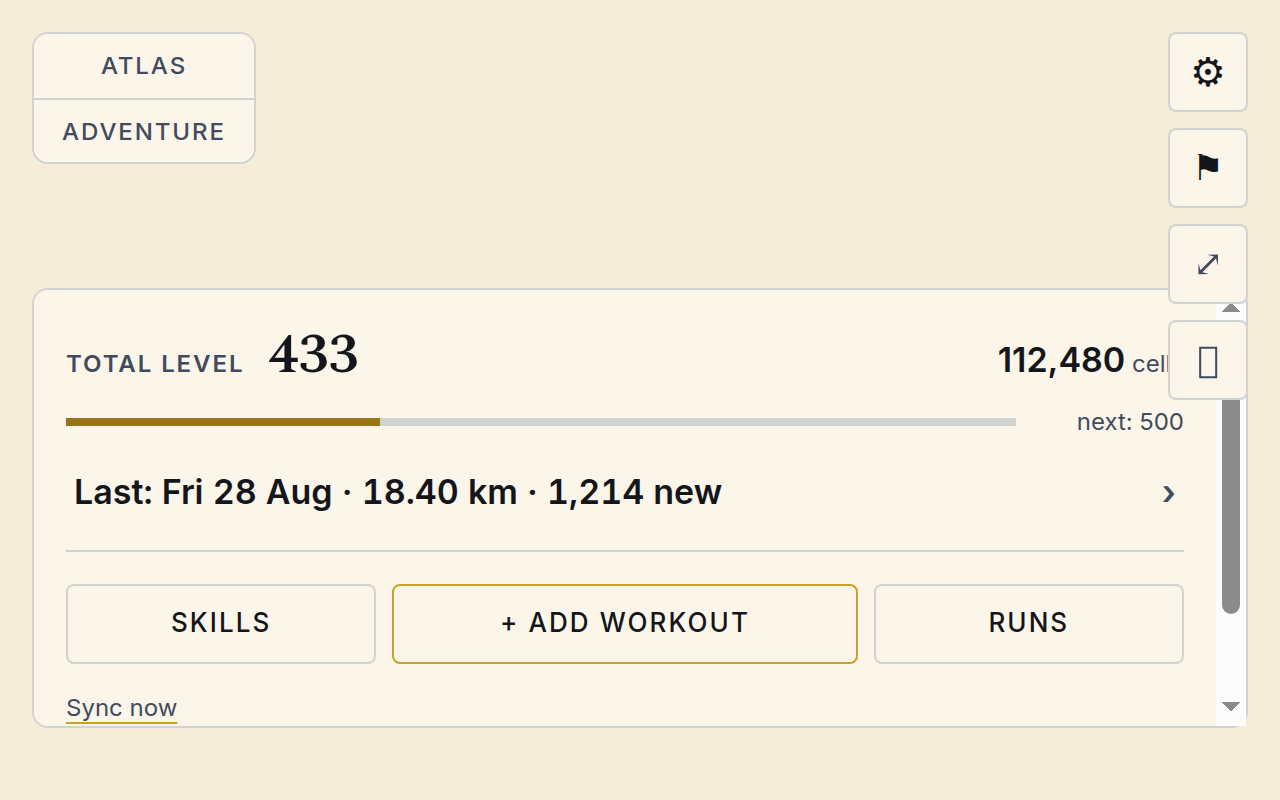
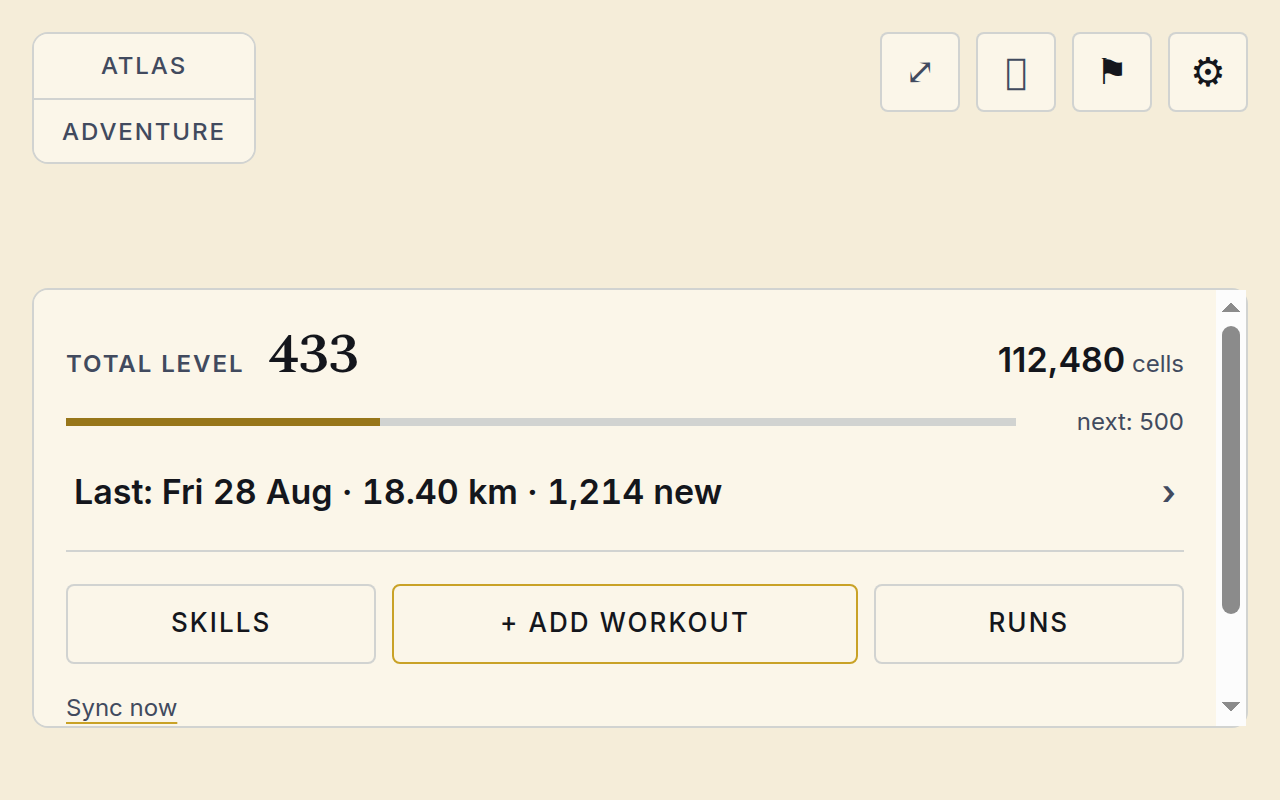
0314: Below 1024px the right-edge map controls overlap the bottom card and the Chronicle

diff --git a/components/map/map-controls.tsx b/components/map/map-controls.tsx
@@ -37,7 +37,9 @@ import { useExplored } from "./explored-provider"
  * `⌖` with an 8 px gap and `⌖`'s bottom 16 px above the attribution (`06` §2.2 rows 6 and 8; D-313:
  * map controls are 40 px and live on the pane, never under the rail), clear of the mode toggle
  * (top-left) and of `⚙` and jump-to (top-right). Below 1024 px the plinth is a bottom card of
- * variable height, so they move up under jump-to instead — that width only must not break (D-251).
+ * variable height, so they join `⚙` and jump-to in ONE ROW along the top-right — fit, `⌖`, jump-to,
+ * `⚙` — where neither the card nor the Chronicle can reach them (`0314`; that width only must not
+ * break, D-251).
  *
  * The rules themselves — hit test, card placement, the transition function — are `lib/route-inspect.ts`
  * and `lib/map-controls.ts`, pure and tested; this file wires them to MapLibre's events.
@@ -54,10 +56,13 @@ export interface ControlsHost extends CameraHost {
 
 /**
  * `bottom: 36px` keeps MapLibre's attribution uncovered (§2.2 row 10, the plinth's own inset). The
- * two buttons share one rule set with `⚙` and jump-to: same surface, rule and size.
+ * two buttons share one rule set with `⚙` and jump-to: same surface, rule and size. Below 1024px
+ * (`0314`) they are a row at `top: 16px`, `right: 112px` — left of jump-to (`right: 64px`) and `⚙`
+ * (`right: 16px`), 8px apart — so the four controls are one 40px strip and the card and the
+ * Chronicle, whatever their height, stay below it.
  */
 export const MAP_CONTROLS_CSS =
-  ".map-controls { position: fixed; z-index: 1; top: 112px; right: 16px; display: flex; flex-direction: column; gap: 8px; }" +
+  ".map-controls { position: fixed; z-index: 1; top: 16px; right: 112px; display: flex; flex-direction: row; gap: 8px; }" +
   " .map-control { width: 40px; height: 40px; display: flex; align-items: center; justify-content: center;" +
   " box-sizing: border-box; padding: 0; background: var(--surface-raised); border: 1px solid var(--line);" +
   " border-radius: 4px; color: var(--text-primary); font-size: 18px; line-height: 1; cursor: pointer; }" +
@@ -65,7 +70,7 @@ export const MAP_CONTROLS_CSS =
   " .map-control:disabled { color: var(--text-secondary); cursor: default; }" +
   " .map-control:focus-visible, .route-card a:focus-visible, .route-chip:focus-visible {" +
   " outline: 2px solid var(--text-primary); outline-offset: 2px; }" +
-  " @media (min-width: 1024px) { .map-controls { top: auto; bottom: 36px; } }" +
+  " @media (min-width: 1024px) { .map-controls { top: auto; bottom: 36px; right: 16px; flex-direction: column; } }" +
   " .route-chip, .route-card { position: fixed; z-index: 2; box-sizing: border-box; background: var(--surface-raised);" +
   " border: 1px solid var(--line); border-radius: 4px; color: var(--text-primary); font: 400 14px/1.3 var(--font-sans);" +
   " font-variant-numeric: tabular-nums; }" +

diff --git a/components/chronicle/chronicle-panel.tsx b/components/chronicle/chronicle-panel.tsx
@@ -20,7 +20,7 @@ import { ChronicleRows } from "./chronicle-rows"
  *
  * A PANEL, NOT A PAGE AND NOT A MODAL. At ≥1024px it replaces the rail's contents — the same 24rem
  * column, full height, opaque — with no scrim, and the map to its right stays live. Below 1024px it
- * takes the bottom card's place, growing up to 16px below the map's top controls, and takes the
+ * takes the bottom card's place, from 16px below the mode toggle to the attribution, and takes the
  * shared swipe-down (D-314) there. It is a ROUTE, held in no component state: the home layout keeps
  * the map mounted under both `/` and `/chronicle`, so opening and dismissing it never touch the
  * camera.
@@ -33,8 +33,13 @@ import { ChronicleRows } from "./chronicle-rows"
  * no week or month totals, no filter, no search, no sort. A list, newest first.
  */
 
+/**
+ * Below 1024px, `top: 98px` is 16px under the mode toggle (16 + its 66px: two 32px border-box rows
+ * and its 1px border, top and bottom) — the tallest thing on the top edge, since `⚙`, jump-to, fit and `⌖`
+ * are one 40px row there (`0314`). `bottom: 36px` keeps the attribution clear (D-315).
+ */
 export const CHRONICLE_CSS =
-  ".chronicle { position: fixed; z-index: 1; left: 16px; right: 16px; top: 72px; bottom: 36px;" +
+  ".chronicle { position: fixed; z-index: 1; left: 16px; right: 16px; top: 98px; bottom: 36px;" +
   " overflow-y: auto; overscroll-behavior: contain; box-sizing: border-box; background: var(--surface-raised);" +
   " border: 1px solid var(--line); border-radius: 8px; color: var(--text-primary); font-family: var(--font-sans); }" +
   " .chronicle-head { position: sticky; top: 0; z-index: 1; display: flex; align-items: center;" +

diff --git a/components/map/region-jump-control.tsx b/components/map/region-jump-control.tsx
@@ -54,12 +54,14 @@ export function listKey(key: string, active: number, count: number): ListMove {
 
 /**
  * Positioned against the pane's right edge, as `⚙` is: `right: 16px` from the window IS the pane's
- * right edge at every width (the rail is on the left). `top: 64px` is `⚙`'s 16px inset, its 40px,
- * and the 8px gap §2.2 uses between stacked map controls. Clear of the mode toggle (top-left) and of
- * fit and `⌖` (bottom-right).
+ * right edge at every width (the rail is on the left). At ≥1024px `top: 64px` is `⚙`'s 16px inset,
+ * its 40px, and the 8px gap §2.2 uses between stacked map controls. Below 1024px (`0314`) it sits
+ * in the top-right row instead, left of `⚙` (`right: 64px` = 16 + 40 + 8), with fit and `⌖` to its
+ * left. Clear of the mode toggle (top-left) either way.
  */
 export const REGION_JUMP_CSS =
-  ".region-jump { position: fixed; z-index: 1; top: 64px; right: 16px; }" +
+  ".region-jump { position: fixed; z-index: 1; top: 16px; right: 64px; }" +
+  " @media (min-width: 1024px) { .region-jump { top: 64px; right: 16px; } }" +
   " .region-jump-button { width: 40px; height: 40px; display: flex; align-items: center; justify-content: center;" +
   " box-sizing: border-box; padding: 0; background: var(--surface-raised); border: 1px solid var(--line);" +
   " border-radius: 4px; color: var(--text-primary); font-size: 18px; line-height: 1; cursor: pointer; }" +

diff --git a/components/map/region-jump-control.test.tsx b/components/map/region-jump-control.test.tsx
@@ -51,7 +51,11 @@ describe("RegionJumpControl", () => {
   })
 
   it("sits under the settings control on the pane's right edge, clear of the top-left mode toggle", () => {
-    expect(REGION_JUMP_CSS).toContain(".region-jump { position: fixed; z-index: 1; top: 64px; right: 16px; }")
+    expect(REGION_JUMP_CSS).toContain("@media (min-width: 1024px) { .region-jump { top: 64px; right: 16px; } }")
     expect(REGION_JUMP_CSS).not.toMatch(/\.region-jump \{[^}]*left:/)
+  })
+
+  it("below 1024px sits in the top-right row, left of the settings control (0314)", () => {
+    expect(REGION_JUMP_CSS).toContain(".region-jump { position: fixed; z-index: 1; top: 16px; right: 64px; }")
   })
 })

diff --git a/tickets/open/0314-below-1024px-the-right-edge-map-controls-overlap-the-bottom.md b/tickets/open/0314-below-1024px-the-right-edge-map-controls-overlap-the-bottom.md
@@ -40,8 +40,9 @@ Nothing scrolls horizontally and no text clips, so this is the only failing part
 
 ## Acceptance criteria
 
-- [ ] `node tools/a11y/run-zoom.mjs` passes, with no overlap on any screen at any of its window sizes.
-- [ ] The ≥1024px rail layout is unchanged; the harness's screenshots at 100% are identical in layout.
+- [x] `node tools/a11y/run-zoom.mjs` passes, with no overlap on any screen at any of its window sizes.
+- [x] The ≥1024px rail layout is unchanged; the harness's screenshots at 100% are identical in layout.
+  *(Amended: the harness has no 100% shots. Its rail case is 2560×1440 at 200%, a 1280×720 viewport, measured but not pictured. It was pictured temporarily before and after the change, and all eight screens' PNGs are byte-identical.)*
 - [ ] (operator) At 200% zoom in the desktop browser, `/` and `/chronicle` look right with the controls clear of the card and panel.
 
 ## Notes
@@ -53,3 +54,45 @@ Propose the options before building (D-152). `0112` stays open until this closes
 ## Operator validation
 
 The (operator) criterion above, on the desktop browser.
+
+## Resolution
+
+**Layout chosen by the operator (option A, relayed by the orchestrator, D-152).** Below 1024px the
+four right-edge map controls are now one row along the top-right: fit, `⌖`, jump-to, `⚙`. They are
+40px tall at `top: 16px`, 8px apart, and `⚙` keeps the corner. The Chronicle starts 16px below the mode
+toggle (`top: 98px`) at full width. Nothing at ≥1024px changed: the media queries restore exactly the
+old values.
+
+Why the old layout failed: the column ran from 16px to 200px down the right edge, and the bottom
+card (55vh cap, 36px off the bottom) starts at about 144px in a 400px-tall viewport. The Chronicle's
+`top: 72px` was set when only `⚙` shared the top edge. It never got the revisit for the mode
+toggle (66px tall, so its bottom is at 82px) that §2.5 promised, and it predates jump-to and the
+below-1024 column.
+
+Files:
+- `components/map/map-controls.tsx`: `.map-controls` below 1024px is a row at `top: 16px;
+  right: 112px`. The `min-width: 1024px` block restores `right: 16px; flex-direction: column` with
+  `bottom: 36px`, as before.
+- `components/map/region-jump-control.tsx`: `.region-jump` below 1024px is at `top: 16px; right: 64px`.
+  A new `min-width: 1024px` block restores `top: 64px; right: 16px`.
+- `components/chronicle/chronicle-panel.tsx`: the below-1024px `top` goes from 72px to 98px
+  (16 + the mode toggle's 66px + 16), with a comment giving the arithmetic.
+- `components/map/region-jump-control.test.tsx`: the position assertion is split into the ≥1024px
+  rule (unchanged values) and the new below-1024px rule.
+- `docs/06-ui-ux.md`: §2.2's "Below 1024px" paragraph (the row), §2.5's Chronicle bullet
+  (`top: 98px`, which closes "the 72px is revisited when the mode toggle lands"), and §9.2's
+  below-1024 bullet. All of them cite `0314` and **D-NEW-a**. The orchestrator replaces that
+  placeholder with the allocated id.
+- `docs/capabilities/assets/0112/{home,chronicle}-{1280x800,1920x1080}-200pct.png`: regenerated
+  with `run-zoom.mjs --commit`. The other committed shots came out byte-identical.
+
+Decisions: D-NEW-a (proposed). Below 1024px the map controls are one top-right row and the
+Chronicle's top is 16px below the mode toggle. It amends 06 §2.2 and §2.5. D-313 and D-251 are
+unchanged in substance.
+
+Costs accepted: below 1024px the row's visual order (fit, `⌖`, jump-to, `⚙`) is the reverse of the
+DOM and tab order (`⚙`, jump-to, fit, `⌖`). The row needs 16 + 112 + 184 + 16 = 328px of width,
+inside §9.2's ~360px floor. Under that, the toggle and the row would meet.
+
+Out of scope: in the harness the `⌖` glyph renders as a missing-glyph box, because the self-hosted
+fonts lack U+2316. This is reported for the orchestrator, not fixed here (see `0317`).

diff --git a/docs/06-ui-ux.md b/docs/06-ui-ux.md
@@ -288,9 +288,12 @@ focus ring.
 rail goes away and its content stacks, unchanged and in the same order, as an opaque card over
 the bottom of a map that now fills the window: 16px side insets, its bottom edge clear of the
 MapLibre attribution (36px; D-315), full width less 32px, 8px radius,
-capped at 55% of the window height and scrolling beyond. The right-edge map controls stack
-down the right edge under `⚙` and jump-to *(`0101`: the card's height varies with its content, so
-"16px above the card" has no fixed position; under jump-to it cannot collide with the card)*.
+capped at 55% of the window height and scrolling beyond. The four right-edge map controls are
+**one row along the top-right**, 40px tall at `top: 16px`, 8px apart: fit, `⌖`, jump-to, `⚙` —
+`⚙` keeps the corner *(`0314`, D-NEW-a: the card's height varies with its content, so neither
+"16px above the card" nor a column down the right edge has a position it cannot collide with; at
+200% zoom of a 1280×800 window the column ran 56px into the card. The row needs 16 + 112 (mode
+toggle) + 184 + 16 = 328px of width, inside §9.2's ~360px floor)*.
 
 **The plinth belongs to `/` only.** `/run/:id` is §3's, and its ledger owns the bottom of the
 window there.
@@ -372,9 +375,11 @@ earlier "carries the lifetime totals at its own top")*.
 - **The unseen mark** goes on at most one row — the latest traced run, when this device has not
   seen it — as a 3px inset `--accent-text` rule plus hidden text, never a count *(D-324, D-335)*.
 - Below 1024px it takes the bottom card's place as a fixed panel at full height: 16px side
-  insets, `top: 72px` (clear of the `⚙`: 16 + 40 + 16) and `bottom: 36px` (clear of the
+  insets, `top: 98px` (16px below the mode toggle: 16 + its 66px + 16, the tallest thing on the
+  top edge now that the map controls are one 40px row there, §2.2) and `bottom: 36px` (clear of the
   attribution, D-315). It does not grow with its content. It is still a panel, not a full-screen
-  page. The 72px is revisited when the mode toggle (`0098`) lands, which shares that top edge.
+  page. *(`0314`, D-NEW-a: the old `top: 72px` cleared only `⚙`, and ran under the mode toggle,
+  jump-to, fit and `⌖`.)*
 
 The skill detail is the other thing that opens over a parent, and it is deliberately different:
 a **centred dialog with a scrim** over `/skills` (§5.5, as `0074` built it), because the panel
@@ -1777,7 +1782,7 @@ The "must not break" rule (D-251), as checks rather than a layout:
 
 - **No horizontal page scroll** at any width down to ~360px, and nothing clipped or unreachable.
 - **Below 1024px the rail becomes a bottom card** over the map, the Chronicle takes that card's
-  place, and the right-edge map controls sit above it (§2.2). The skill dialog rises from the bottom
+  place, and the map controls are one row along the top-right above both (§2.2). The skill dialog rises from the bottom
   edge (§5.5). Nothing else changes.
 - **Nothing is optimised for a phone and nothing is tested on one.** A narrow window in the
   desktop browser is the test.
